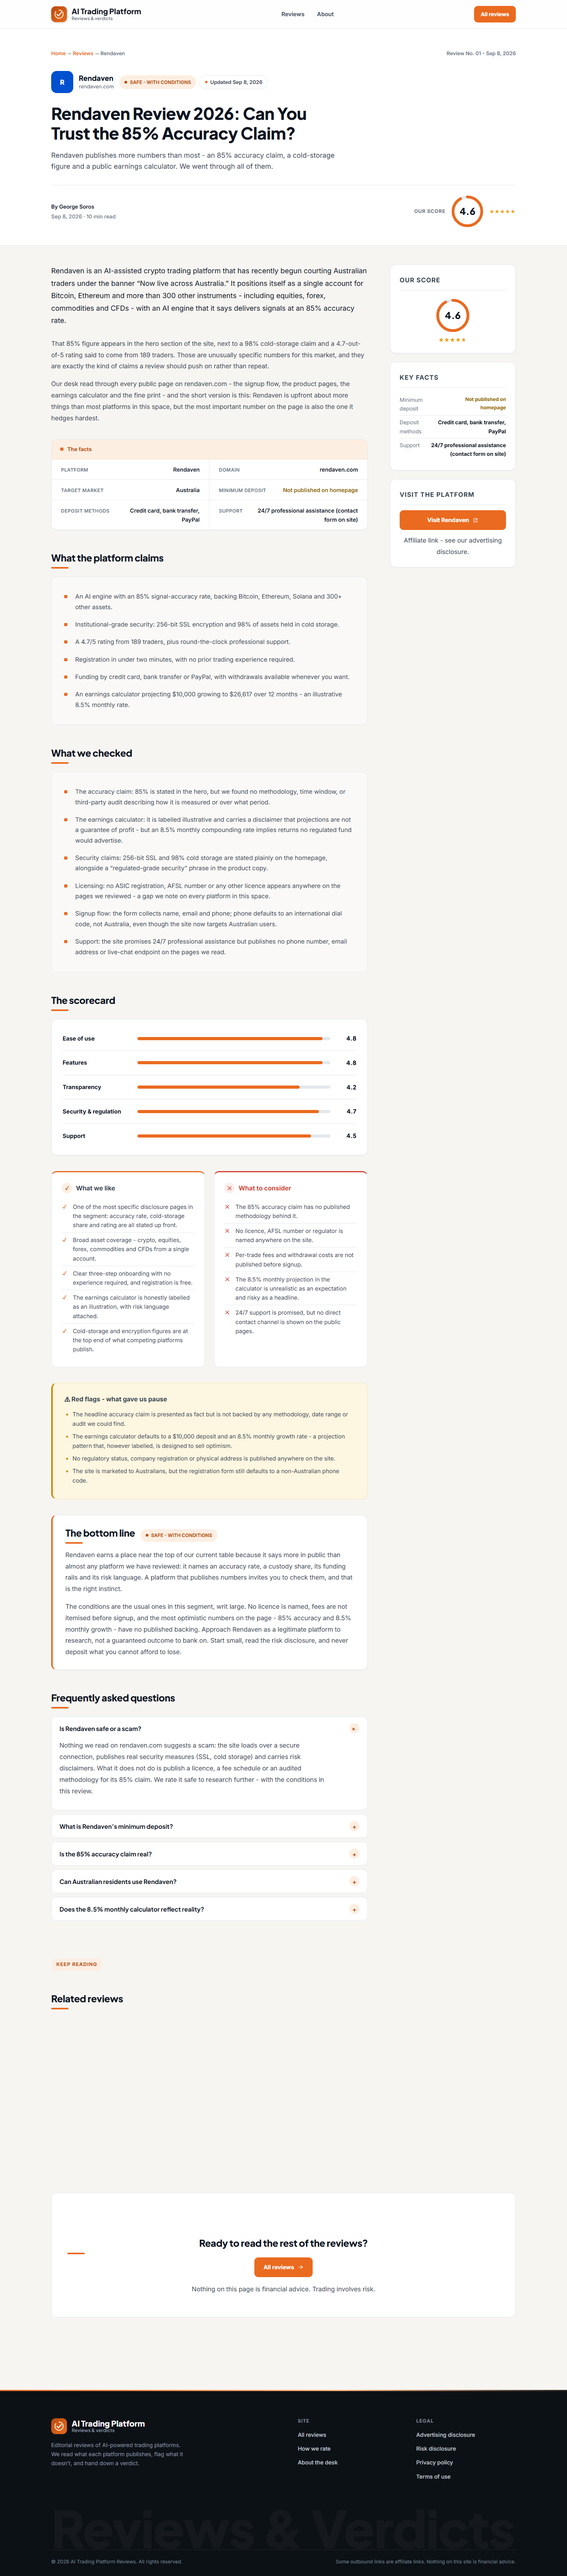
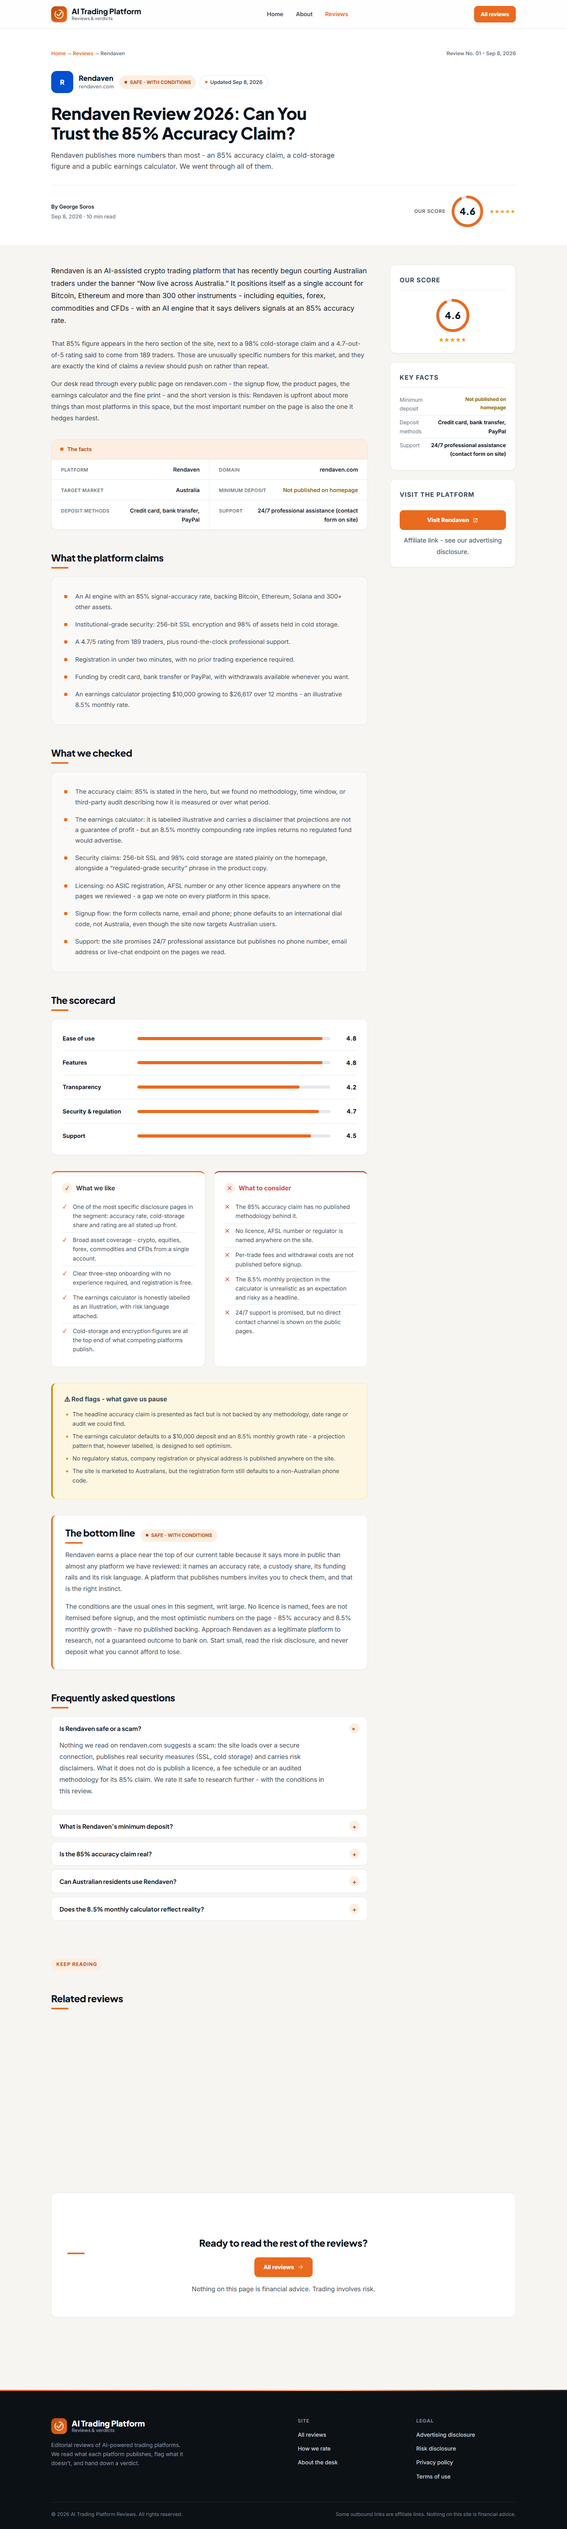
menu updated

diff --git a/src/components/Header.jsx b/src/components/Header.jsx
@@ -1,8 +1,29 @@
-import { Link, NavLink } from 'react-router-dom'
+import { Link, useLocation } from 'react-router-dom'
 import { NAV_LINKS } from '../data/site.js'
 import LogoMark from './LogoMark.jsx'
 
+// Manual active state: NavLink treats /#reviews as "/", which would highlight
+// the Reviews link on every page. Reviews is active only when the visitor is
+// looking at the reviews section or a review article.
+function isReviewsActive(pathname, hash) {
+  if (pathname === '/' && hash === '#reviews') return true
+  return (
+    pathname.startsWith('/review/') ||
+    pathname.startsWith('/trading/') ||
+    pathname.startsWith('/page/')
+  )
+}
+
 export default function Header() {
+  const { pathname, hash } = useLocation()
+
+  const linkActive = (link) => {
+    if (link.to === '/') return pathname === '/' && hash !== '#reviews'
+    if (link.to === '/about') return pathname === '/about'
+    if (link.to === '/#reviews') return isReviewsActive(pathname, hash)
+    return false
+  }
+
   return (
     <header className="header">
       <div className="container">
@@ -18,9 +39,9 @@ export default function Header() {
           <ul className="header__links">
             {NAV_LINKS.map((link) => (
               <li key={link.label}>
-                <NavLink to={link.to} end={link.to === '/'}>
+                <Link to={link.to} className={linkActive(link) ? 'active' : ''}>
                   {link.label}
-                </NavLink>
+                </Link>
               </li>
             ))}
           </ul>

diff --git a/src/data/site.js b/src/data/site.js
@@ -12,8 +12,9 @@ export const SITE = {
 }
 
 export const NAV_LINKS = [
-  { label: 'Reviews', to: '/#reviews' },
+  { label: 'Home', to: '/' },
   { label: 'About', to: '/about' },
+  { label: 'Reviews', to: '/#reviews' },
 ]
 
 // The five dimensions behind every scorecard.
